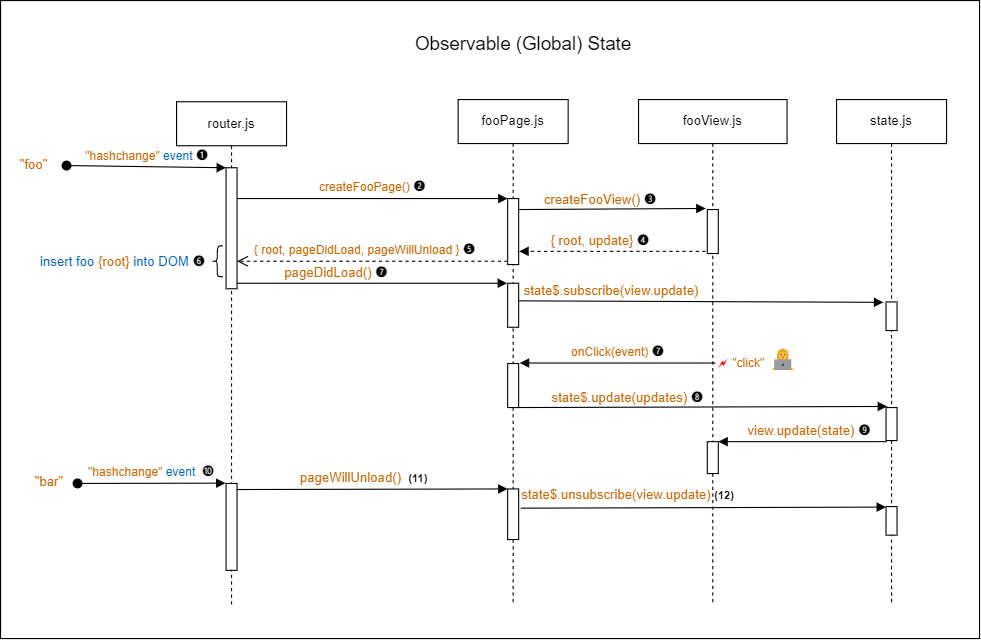
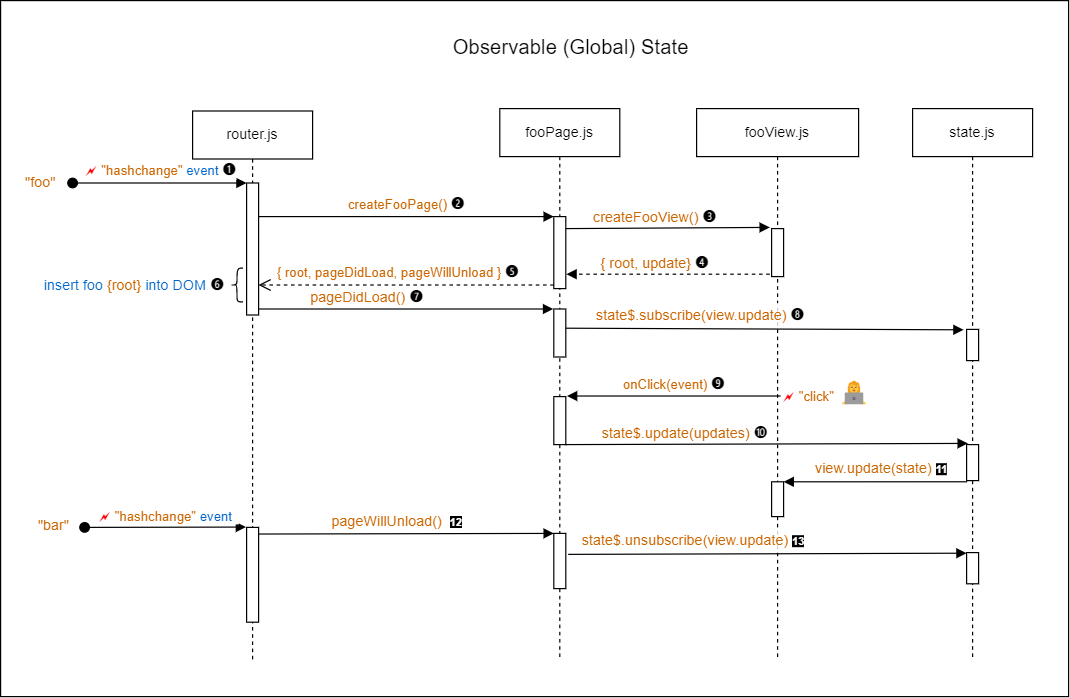
Documentattion improvements

diff --git a/docs/ROUTER.md b/docs/ROUTER.md
@@ -1,22 +1,30 @@
 # Router
 
-Code: [src/lib/router.js](../src/lib/router.js)
+Implementation: [src/lib/router.js](../src/lib/router.js)
 
 ## 1. Introduction
 
-The purpose of a (client-side) router in a Single Page Application is to let the client programmatically load different application 'pages' into the DOM by manipulating the browser's location url. In a hash-based router, as used in this repo, the specific page to load is determined by the `hash` fragment of the `url`. In a `url`, a hash fragment is the part that starts with a `#` mark. Everything following the `#` mark is considered part of the hash.
+This document describes a client-side router that can be used to navigate between pages in an SPA with multiple client-side pages.
+
+The purpose of a client-side router is to let the client programmatically load different application 'pages' into the DOM by manipulating the browser's location url. In a hash-based router, as provided in this repo, the specific page to load is determined by the `hash` fragment of the `url`. In a `url`, a hash fragment is the part that starts with a `#` mark. Everything following the `#` mark is considered part of the hash.
 
 We can use the hash to specify the name of the page to load and can optionally embed parameters to pass to the Page function. It can be said that the `url` when used in such a way becomes part of the application state.
 
-A hash-based router uses an event listener to listen for hash changes and responds to those changes by loading a matching page (see **Implementation** below).
+A hash-based router uses an event listener to listen for hash changes and responds to those changes by loading a matching page.
 
-Example of a hash with a page name and two parameters.
+Here is an example of how we can use a hash to specify a page name and two parameters.
 
-```text
+```console
 #repo/HackYourFuture/UsingAPIs
 ```
 
-This hash identifies a page named `repo` and two string parameters to be passed to the Page function: `"HackYourFuture"` and `"UsingAPIs"`. The router will call the corresponding Page function effectively like this:
+The complete url could look like this:
+
+```console
+https://remarcmij.github.io/vanilla-starter/#repo/HackYourFuture/UsingAPIs
+```
+
+The hash identifies a page named `repo` and two string parameters to be passed to the Page function: `"HackYourFuture"` and `"UsingAPIs"`. The router will respond to the `"hashchange"` event by calling the corresponding Page function, effectively like this:
 
 ```js
 createRepoDetailPage({ props: ['HackYourFuture', 'UsingAPIs'] });
@@ -24,9 +32,9 @@ createRepoDetailPage({ props: ['HackYourFuture', 'UsingAPIs'] });
 
 ### 1.1 Pros and Cons of a Hash-Based Router
 
-The hash fragment in a url is not considered part of the web address. The browser only uses the url parts preceding the hash when making an HTTP request to load an HTML page. In a Single Page Application that uses a hash-based router you can therefore do the following without the need for backend support:
+The hash fragment in a url is not considered part of the web address. The browser only uses the url parts preceding the hash when making an HTTP request to load an HTML page. Changing just the hash part of the url will not cause the browser to load a new HTML file. In a Single Page Application that uses a hash-based router you can therefore do the following without the need for backend support:
 
-- You can use the browsers back and forward buttons to navigate through the application's navigation history.
+- You can use the browsers back and forward buttons to navigate through the application's navigation history without triggering page reloads.
 - You can reload the browser and return to the same application page as specified by the hash. If the parameters required to fetch data are taken from the hash then that data is re-fetched automatically too.
 - You can bookmark an application url and return to the same page in the future.
 - You can send the url to a friend who then lands on the expected application page.
@@ -36,6 +44,8 @@ The downside of a hash-based router is that the url looks 'funny' because of pre
 ## 2. Using the Router
 
 The router resided in the `lib` folder and requires a table (actually, an array) with route definitions. This table is normally located in the `pages` folder.
+
+The routes table is passed to the router in `app.js` by calling its `start` method. The second parameter to `router.start()` is the DOM element where pages should be "mounted".
 
 ```js
 import router from './lib/router.js';
@@ -131,7 +141,7 @@ The sequence diagram of Figure 1 below illustrates how the router responds to ha
 > Note: The _"messages"_ referred to in this quotation are in our case function calls and function returns.
 
 ![router-page-view](./assets/router-page-view.png)<br>
-Figure 1: Router / Page / View Interactions
+Figure 1: **Router / Page / View Interactions**
 
 Here's what happens:
 
@@ -139,11 +149,53 @@ Here's what happens:
 
 2. The router looks up the hash fragment in the routes table and finds a matching route.
 
-3. From this point on, the process is exactly the same as what was described in the main README where the page was created directly from `apps.js`.
+3. The router call the corresponding Page function to create a new page.
+
+4. The `createFooPage()` function first sets up any view props (a JavaScript object) as needed for the View, such as event handlers for the View's DOM elements. In the diagram two event handler are shown: `onClick()` which will handle a `"click"` event and `onInput()` which will handle an `"input"` event.
+
+   The `createFooPage()` then calls the `createFooView()` function imported from `fooView.js` to create the View, passing the event handlers as view props as illustrated in this code snippet.
+
+   ```js
+   const onClick = () => { ... };
+   const onInput = () => { ... };
+   const viewProps = { onClick, onInput };
+   const view = createFooView(viewProps);
+   ```
+
+5. The `createFooView()` function creates the View's DOM subtree, attaches any event listener and, if needed, sets up an `update()` callback function that can be called to update the View DOM subtree whenever the application state changes.
+
+   ```js
+   function createFooView(props) {
+     const root = ...
+     ...
+     myButton.addEventListener('click', props.onClick);
+     myInput.addEventListener('input', props.onInput);
+
+     const update = (state) => {
+       ...
+     };
+
+     return { root, update }
+   }
+   ```
+
+6. The `createFooView()` function returns an object with the following properties:
+
+   <!-- prettier-ignore -->
+   | Property | Description |
+   |----------|-------------|
+   | `root` | The `root` element of the DOM subtree created by the View function.|
+   | `update` | The callback function as described above. |
+
+7. The `createFooPage()` function, in its turn, returns a Page object that includes the `root` property from the View.
+
+8. The router inserts the `root` element of the View's subtree into the document's DOM, replacing the DOM subtree of the previous page.
+
+From that point on the Page and the View interact as described previously.
 
 ### 2.4 Lifecycle Methods
 
-Lifecycle methods are optional methods of a Page object that, when present, will be called the router at the appropriate points in the lifecycle of a Page object. The two possible lifecycle methods are described in the table below.
+Lifecycle methods are optional methods provided in a Page object that, when present, will be called the router at the appropriate points in the lifecycle of a Page. The two possible lifecycle methods are:
 
 <!-- prettier-ignore -->
 | Lifecycle Method  | Description |
@@ -154,7 +206,7 @@ Lifecycle methods are optional methods of a Page object that, when present, will
 The UML sequence diagram of Figure 2 below illustrates how the router interacts with a Page object through the lifecycle methods.
 
 ![lifecycle-methods](./assets/lifecycle-methods.png)<br>
-Figure 2: Lifecycle Methods
+Figure 2: **Lifecycle Methods**
 
 Here are the steps:
 
@@ -162,7 +214,7 @@ Here are the steps:
 
 2. The router call the Page creation function, in this example for the Foo page.
 
-3. The Page function returns an object that includes a `pageDidLoad` and a `pageWillUnload` property next to the required `root` property. These additional properties should be references to functions inside the Page object.
+3. The Page function returns an object that includes a `pageDidLoad` and a `pageWillUnload` property next to the required `root` property. These additional properties should be references to functions inside the Page function.
 
 4. The router insert the DOM subtree from the Page into document's DOM, replacing any previous page.
 
@@ -170,9 +222,9 @@ Here are the steps:
 
 6. When navigating away from a page, a new `"hashchange"` event is fired.
 
-7. Before creating the new page, the router calls the `pageWillUnload()` lifecycle method of the Page object. Inside this method (called without any arguments), the Page can perform clean up task prior to being unloading. For example, it can stop a timer or cancel a network request.
+7. Before creating the new page, the router calls the `pageWillUnload()` lifecycle method of the current Page. Inside this method (called without any arguments), the Page can perform clean up task prior to being unloading. For example, it could stop a timer or cancel a network request.
 
-8. The router now calls the Page creation function for the new page.
+8. The router now calls the Page function for the new page.
 
 The remaining steps are the same as steps 3-5 above.
 

diff --git a/docs/STATE.MD b/docs/STATE.MD
@@ -1,14 +1,22 @@
 # Observable State
 
+Implementation: [src/lib/observableState.js](src/lib/observableState.js)
+
+## 1. Introduction
+
+The `observableState.js` module from the `lib` enables the sharing of application state across multiple pages. This module implements a concept that we will refer to as Observable State. A Page function can subscribe and unsubscribe the `update()` method of its subordinate View object to an Observable State object. When the Observable State object is updated, the `update()` method of the subscribed View object is called.
+
+## 2. Router/Page/View/State Interactions
+
+The interactions between Router, Page, View and Observable State are illustrated in Figure 1 below. It involves the use of the Life Cycle methods that were discussed in section [2.4 Lifecycle Methods](ROUTER.md/#24-lifecycle-methods) of the Router document.
+
 ![observable-state](./assets/observable-state.png)<br>
 Figure 1: **Observable Global State Interactions**
 
-### Function: `createObservableState()` (Advanced Feature)
+An Observable State object has four method properties, the first three of which are shown in Figure 1:
 
-File: [src/lib/observableState.js](src/lib/observableState.js)
-
-```ts
-createObservableState() => {
+```js
+{
   subscribe: (subscriber: Function) => void,
   unsubscribe: (subscriber: Function) => void,
   update: (updates: object) => object,
@@ -16,15 +24,27 @@ createObservableState() => {
 }
 ```
 
-This function creates an "observable state" and returns an object containing four methods to use that state. It is best used in combination with the router to simplify sending state updates to View functions.
+Let's focus on the interactions from Figure 1 that are relevant to the Observable State.
 
-Here is how it is typically used:
+<!-- prettier-ignore -->
+| Steps | Description |
+| :----:| ----------- |
+| 5 | In addition to the `root` and `update` properties from the View object, the Page object is now augmented with the `pageDidLoad` and `pageWillUnload` method, implemented as internal functions of the Page function. |
+| 8 | Inside the `pageDidLoad` method, the `subscribe` method of the Observable State object is called with the `update` method of the View object as the argument. |
+| 10 | When the state needs to be updated, the `update` method of the Observable State object with an object containing just the updates to be made to the state. |
+| 11 | Every time the Observable State object is updated, it calls its subscribers, passing the updated state as argument. |
+| 12 | When the page is unloaded (i.e. when navigating to another page), the Page unsubscribes the `update()` method of its View so that it no longer receives state updates. |
 
-File: [src/examples/github-2/state.js](src/examples/github-2/state.js)
+## 3. Using the Observable State
+
+The recommended practice to create an Observable State object is to create it in a separate file `state.js` at the same level as `app.js` (normally the `src/` folder). Below is canonical way to create an Observable State object. For debugging purposes, the current state is also logged the console every time it is updated. This is done by subscribing the logger to the Observable State object.
+
+It is recommended to use the variable name `state$` for the Observable State object, with the `$` suffix indicating that it is "observable" rather than just a plain JavaScript data object.
 
 ```js
-import logger from '../../lib/logger.js';
-import createObservableState from '../../lib/observableState.js';
+// src/state.js
+import logger from './lib/logger.js';
+import createObservableState from './lib/observableState.js';
 
 const state$ = createObservableState();
 
@@ -36,11 +56,18 @@ state$.subscribe((state) => {
 export default state$;
 ```
 
-Here, an observable state object is created that can be imported by other modules. The state object is then used to update the state of the application. Note the use of the use of a `$` sign to indicate (by convention) that the variable is an observable state.
+The function signature for `createObservableState()` is as follows:
 
-During development, it is helpful to be able see state changes in the console as the application is running. This is done here by subscribing to the observable state and logging the state changes using the `logger.debug()` method.
+```js
+createObservableState() => {
+  subscribe: (subscriber: Function) => void,
+  unsubscribe: (subscriber: Function) => void,
+  update: (updates: object) => object,
+  get: () => object
+}
+```
 
-Here is an example of how the observable state is used in a Page function:
+Here is an example of how the Observable State object is used in a Page function:
 
 ```js
 import router from '../../../lib/router.js';
@@ -64,7 +91,7 @@ function createReposPage(props) {
       state$.update({ repos, loading: false });
     } catch (error) {
       state$.update({ error, loading: false });
-      router.navigateTo('gh-error');
+      router.navigateTo('error');
       return;
     }
   };
@@ -85,4 +112,4 @@ function createReposPage(props) {
 
 As you can see, the Page subscribes to the observable state when the page is loaded and unsubscribes just before the page is unloaded. The `pageDidLoad` and `pageWillUnload` "lifecycle" functions are called by the router at the appropriate times.
 
-To make these functions available to the router they must be added to the object that is returned by the Page function. Here, ES7 object spread syntax is used for that.
+To make these functions available to the router they must be added to the object that is returned by the Page function.

diff --git a/README.md b/README.md
@@ -136,6 +136,42 @@ Let's walk through the code a little bit more closely.
 
 Finally, the `root` property of the Page object is used in `app.js` to insert the DOM subtree of the Page into the document's DOM.
 
+### 3.3 Division of Responsibilities: Page vs View
+
+> All the example applications in this repo strictly follow the principles outlined in this section. There should be no reason to deviate from these principles in your own application.
+
+#### 3.3.1 Page
+
+- The Page function is responsible for handling all user interactions with the page and for updating the state object with any changes caused by these interactions. If appropriate, it should call the `update()` method of its subordinate View, passing the updated state object as argument.
+
+- DOM event handlers should be defined as internal functions of the Page function and be passed as props to the View function.
+
+- Network requests should be handled by the Page function, either when the page is initially created and/or as a response to user interactions with the page.
+
+#### 3.3.2 View
+
+- The View function is responsible for creating the page's DOM subtree and, if appropriate, for updating the DOM subtree depending on the state passed to its `update()` method.
+
+#### 3.3.3 Interactions
+
+- All communication from the Page to View should be done from within the Page function by calling the `update()` function of the View, passing an updated state object as an argument.
+
+- All communication from the View to Page should be done by means of event handlers, passed as props to the View function. For example, in Figure 4 below, a `"click"` event handler inside the Page function, passed as props to the View, is called when a `"click"` event is triggered by an element of the View's DOM subtree.
+
+![page-view-interaction](docs/assets/page-view-interaction.png)<br>
+Figure 4: **Page/View Interaction**
+
+#### 3.3.4 Architectural Violations
+
+Here is a list of examples of things that would considered architectural violations:
+
+- Access DOM elements outside of the View function, e.g. by using `document.getElementById()` or `document.querySelector()`. The View function should have exclusive access to its DOM subtree.
+- Handling events inside a View function. Events should be handled inside the Page function.
+- Mutating or updating the state object inside a View function. Inside a View function it should be considered readonly.
+- Exporting anything other the `createXXXPage()` function from a Page module.
+- Exporting anything other than the `createXXXView()` function from a View module.
+- Adding more parameters than those documented here to the `createXXXPage()`, `createXXXView()` or `update()` functions.
+
 ## 4. Further Reading
 
 <!-- prettier-ignore -->
@@ -159,6 +195,7 @@ Finally, the `root` property of the Page object is used in `app.js` to insert th
 
    ```js
    // import loadApp from './examples/menu/app.js';
+   // ...
    import loadApp from './app.js';
    ```
 
@@ -168,4 +205,4 @@ Finally, the `root` property of the Page object is used in `app.js` to insert th
 
 7. In `src/index.html`, modify the contents of the `<head>` as you see fit, taking out no longer needed style sheets and adding in your own.
 
-8. If in doubt how to achieve some specific functionality, examine the `examples` folder for possible approaches.
+That's it! You should now be able to build your own SPA using the Application Architecture described in this document.

diff --git a/docs/RECIPES.md b/docs/RECIPES.md
@@ -1,3 +1,79 @@
-# Recipes
+# Tips and Tricks
 
-TODO
+## 1. Inside Page Functions
+
+### 1.1 Accessing the value property of an input / select element inside a Page function
+
+A Page function does not (should not) have access to the DOM elements of its View. This is a rule of the current Application Architecture, following the _Separation of Concerns_ design principle. So how do we access the value of an input element?
+
+The answer is by the Page function passing an event handler to View that is called when an `"input"` event is fired on the element. The event handler can update the state, from which we can read the value as and when needed.
+
+As the same time, the value of the input element is updated from the state object through the View's `update()` method.
+
+In the example below the `onFilterInput()` event handler trims the string value obtained from the event object and converts it to lowercase before updating the state. The net effect of this is that the value of the input element is always in lowercase, without leading or trailing whitespace. In React, the element would be called a "controlled component".
+
+Full code: [reposPage.js](../src/examples/github/pages/reposPage.js)
+
+```js
+function createReposPage(props) {
+  // ...
+
+  const onFilterInput = (e) => {
+    const filter = e.target.value.trim().toLowerCase();
+    state$.update({ filter });
+  };
+
+  const onClearFilter = () => {
+    state$.update({ filter: '' });
+  };
+
+  // ...
+
+  const viewProps = {
+    // ...
+    onFilterInput,
+    onClearFilter,
+  };
+
+  const reposView = createReposView(viewProps);
+
+  // ...
+}
+```
+
+Full code: [toolbarView.js](../src/examples/github/views/toolbarView.js)
+
+```js
+function createToolbarView(props) {
+  const root = document.createElement('div');
+  // simplified
+  root.innerHTML = String.raw`
+    <div>
+      <input type="text" id="filterInput"/>
+      <button type="button" id="btnClear" disabled>Clear</button>
+    </div>
+  `;
+
+  const { filterInput, btnClear } = findElementsWithIds(root);
+
+  filterInput.addEventListener('input', props.onFilterInput);
+  btnClear.addEventListener('click', props.onClearFilter);
+
+  const update = (state) => {
+    filterInput.value = state.filter || '';
+    btnClear.disabled = !state.filter;
+  };
+
+  return { root, update };
+}
+```
+
+### 1.2 Updating local state and calling update()
+
+### 1.3 Fetching data
+
+## 2. Inside View functions
+
+### 2.1 Finding DOM elements with `id` attributes
+
+### 2.2 Avoid unnecessary DOM updates
